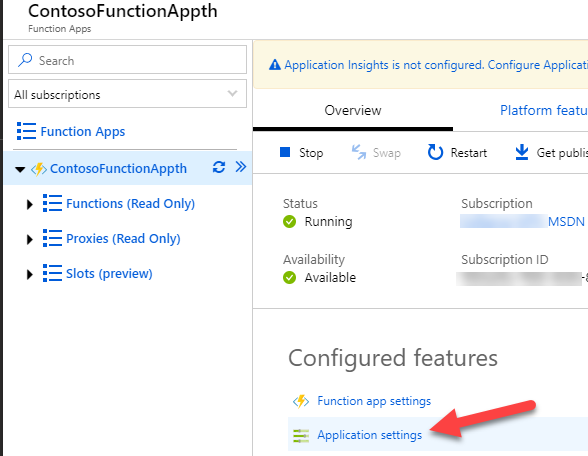
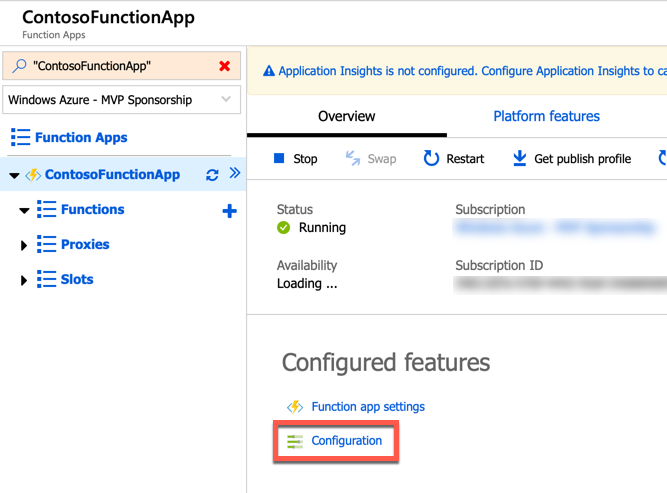
work on test/fix

diff --git a/Hands-on lab/HOL step-by-step - Modern cloud apps.md b/Hands-on lab/HOL step-by-step - Modern cloud apps.md
@@ -1901,103 +1901,97 @@ Contoso wants to automate the process of generating receipts in PDF format and a
 
 ### Task 1: Create an Azure Function to Generate PDF Receipts
 
-1. Click the **+Create a resource** button found on the upper left-hand corner of the Azure portal and then click **Compute \> Function App**. Click **Create** button at the bottom. Then in the new blade, select your Subscription, type a unique App name that identifies your function app e.g. (ContosoFunctionApp), then specify the following settings:
-
-    - [**Resource Group**](https://docs.microsoft.com/en-us/azure/azure-resource-manager/resource-group-overview): Use the existing resource group, **contososports**.
-
-    - [**Hosting plan**](https://docs.microsoft.com/en-us/azure/app-service/azure-web-sites-web-hosting-plans-in-depth-overview): One of the following plans:
-
-    - **Hosting plan**: The default hosting plan type for Azure Functions is **Consumption Plan**. When you choose a consumption plan, you must also choose the **Location**. For now, select **App Service Plan**.
-        - **Runtime Stack**: Keep **.NET** value.
-
-        - **App Service plan**: An App Service plan requires you to create an **App Service plan/location** or select an existing one. These settings determine the [location, features, cost, and compute resources](https://azure.microsoft.com/pricing/details/app-service/) associated with your app. For now, select the existing App Service Plan you have been using so far in this lab.
-
-        - **Storage account**: Each function app requires a storage account. Choose the existing storage account by clicking **Select Existing** and choosing the storage account in the **contososports** resource group.
-        - **Application Insights** - Disabled
+1. Click the **+Create a resource** button found on the upper left-hand corner of the Azure portal and then click **Compute \> Function App**. Click **Create** button at the bottom.
 
     ![On the left side of the Portal, the Create a resource button is selected. In the middle, under New, Compute is selected. On the right, under Compute, Function App is selected.](images/Hands-onlabstep-by-step-Moderncloudappsimages/media/image221.png "Azure Portal")
 
-2. Click **Create** to provision and deploy the new function app.
+2. Provision and deploy the new function app, with the following settings:
+
+    - [**Resource Group**](https://docs.microsoft.com/en-us/azure/azure-resource-manager/resource-group-overview): Use the existing resource group, **contososports**.
+
+    - **OS**: Windows
+
+    - [**Hosting plan**](https://docs.microsoft.com/en-us/azure/app-service/azure-web-sites-web-hosting-plans-in-depth-overview): App Service Plan
+
+    - **App Service plan**: Select the **existing App Service Plan** you have been using so far in this lab. An App Service plan requires you to create an App Service plan/location or select an existing one. These settings determine the [location, features, cost, and compute resources](https://azure.microsoft.com/pricing/details/app-service/) associated with your app.
+
+    - **Runtime Stack**: .NET Core
+
+    - **Storage account**: Each function app requires a storage account. Choose the existing storage account by clicking **Select Existing** and choosing the storage account in the **contososports** resource group.
+
+    - **Application Insights**: Disabled
 
     ![Under Function App, the App name field is set to ContosoFunctionApp, and at the bottom the Create button is selected.](images/Hands-onlabstep-by-step-Moderncloudappsimages/media/image222.png "Function App section")
 
-3. Paste your storage account connection string into Notepad.
+3. Navigate to the Storage Account in the **contososports** resource group, go to **Access Keys** and copy the **Connection String** for the Storage Account. Paste your storage account connection string into Notepad to save for later.
 
     ![Display storage account list.  Pointing to Access keys.](media/2019-04-15-15-07-15.png "Storage Account Access keys")
 
-4. Create Function App Application Settings
-    - Navigate to the Function App you just created earlier.
+4. Navigate to the **Function App** that was just created, and click on **Configuration**.
 
-    ![Display Contoso Function App. Arrow showing the Application Setting link.](media/2019-04-15-15-15-22.png "Contoso Function App Application Settings")
+    ![Display Contoso Function App, with the Configuration link highlighted.](media/2019-04-15-15-15-22.png "Contoso Function App Application Settings")
 
-    - Click the **+ New application setting** link.
-    - Enter the name ``AzureWebJobsStorage``.
-    - Enter the value for your storage account connection string.
-    - Click the **Update** button.
+5. Add a new Application Setting with the following values, then click **Save**:
 
-    - Click the **+ New application setting** link.
-    - Enter the name ``contososportsstorage``.
-    - Enter the value for your storage account connection string, again.
-    - Click the **Update** button.
+    - **Name**: `contososportsstorage`
+    - **Value**: Enter the Connection String for your storage account.
 
     ![Updated Function App Application settings. Showing final values.](media/2019-04-15-16-18-36.png "Updated Function App Application settings.")
 
-5. Publish the Function App.
-
-    - Open the Visual Studio solution.
-    - Right click on the **ContosoFunctionApp** project.
-    - Select **Publish**.
+6. To publish the Function App, open the Visual Studio solution, Right-click on the **ContosoFunctionApp** project, then select **Publish**.
 
     ![Visual Studio Solution Explorer is open. Menu is displayed for Contoso Function App. Selecting function app publish.](media/2019-04-15-15-31-03.png "Selecting function app publish")
 
-    - Select your Function App.
+7. On the **Pick a publish target** dialog, Select **Select existing**, then click **Publish**.
+
+8. Select the **Function App**, then click **OK**.
 
     ![Azure function app tree displayed. The Contoso Function App is selected.](media/2019-04-15-15-34-54.png "Azure function app tree displayed")
 
-    - Check for errors in the Output window.
+9. The publish should only take minute or so. You can check the **Output** window for any errors that may occur.
 
     ![The build Output window is displayed. Publish succeeded message is shown.](media/2019-04-15-15-33-20.png "Output window.")
 
-6. Test your newly published Function App.
+10. To test your newly published Function App, start by navigating back to your Contoso Function App in the Azure Portal. Select the newly created **ContosoMakePDF** function listed in the functions.
 
-    - Navigate back to your Contoso Function App in the Azure Portal. You should see the newly created **ContosoMakePDF** function listed in the functions.  Select it.
+11. Click on the **Test** link located on the right-hand blade.
 
-    - Click on the **Test** link located on the right-hand blade.
+  ![Function apps are listed on the left hand side. ContosoMakePDF is selected.  There is an arrow pointing to the Test link on the right pane.](media/2019-04-15-15-40-27.png "Function Test link")
 
-        ![Function apps are listed on the left hand side. ContosoMakePDF is selected.  There is an arrow pointing to the Test link on the right pane.](media/2019-04-15-15-40-27.png "Function Test link")
+12. Select **POST** for the HTTP method.
 
-    - Select POST for the HTTP method.
+13. Open the **sample.dat** file found in your lab files Contoso.CreatePDFReport directory.  Copy the contents into the **Request body** text box.
 
-    - Open the **sample.dat** file found in your lab files Contoso.CreatePDFReport directory.  Copy the contents into the **Request body** text box.
+  ![A small screenshot of Windows Explorer is shown emphasizing the file path to the sample.dat file.](media/2019-04-15-15-47-39.png "Sample.dat File")
 
-        ![A small screenshot of Windows Explorer is shown emphasizing the file path to the sample.dat file.](media/2019-04-15-15-47-39.png "Sample.dat File")
+14. Click the **Run** button located at the bottom of the blade.
 
-    - Click the **Run** button located at the bottom of the blade.
+    ![The screenshot displays the Test blade with sample.dat contents. The Request body field shows the Order JSON. There is an arrow pointing to Run button.](media/2019-04-15-15-52-59.png "Display Test blade with sample.dat contents")
 
-        ![The screenshot displays the Test blade with sample.dat contents. The Request body field shows the Order JSON. There is an arrow pointing to Run button.](media/2019-04-15-15-52-59.png "Display Test blade with sample.dat contents")
+    > **NOTE:** There is also a **Run** button located at the top of the Azure Function blade. Clicking either of these buttons will run the function just the same.
 
     After a few seconds, you should see logs similar to the image below. You should see return status code of 200.  The **Output** text box should show recent Contoso purchase data. You should see a message stating the file has been created and stored in the blob storage.
 
     ![There is a screenshot displaying the Function App test result log.  A status code of 200 OK is displayed on the right side pane.](media/2019-04-15-15-58-54.png "Function App test result log.")
 
-7. Check your receipt PDF in the storage account blob.
+15. Check your receipt PDF in the storage account blob.
 
     - Navigate to the ContosoSports storage account.
     - Click on the **Blobs** link.
 
-        ![The Settings options are displayed. There is an arrow pointing to the Blobs link.](media/2019-04-15-16-06-17.png "Blobs link")
+    ![The Settings options are displayed. There is an arrow pointing to the Blobs link.](media/2019-04-15-16-06-17.png "Blobs link")
 
-8. Click the newly created **receipts** blob container.
+16. Click the newly created **receipts** blob container.
 
     ![The storage account blobs are listed. Receipts blob container is highlighted.](media/2019-04-15-16-08-35.png "Click the Blobs link")
 
-9. Open **ContosoSportsLeague-Store-Receipt-XX.pdf** link.
+17. Open **ContosoSportsLeague-Store-Receipt-XX.pdf** link.
 
     ![There is a screenshot displaying a list of the newly created PDF receipts. An arrow pointing to the Download link is located on the right side of the screen.](media/2019-04-15-16-11-24.png "PDF Receipts")
 
-    - Open the ``...`` link and choose download menu item.
+    - Open the `...` link and choose download menu item.
 
-     ![A sample Contoso Sports League PDF receipt is displayed.](media/2019-04-15-16-15-06.png "Sample PDF receipt")
+    ![A sample Contoso Sports League PDF receipt is displayed.](media/2019-04-15-16-15-06.png "Sample PDF receipt")
 
 ### Task 2: Create an Azure Logic App to Process Orders
 
